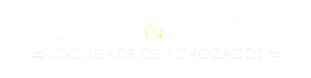
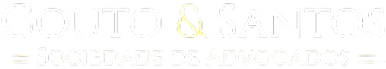
fix: Imagens de parceiros em webp

diff --git a/src/components/sections/TrustedBy.jsx b/src/components/sections/TrustedBy.jsx
@@ -10,8 +10,8 @@ import LogoDisplay from "../sectionElements/LogoDisplay";
 import SectionHeader from "../sectionElements/SectionHeader";
 import SectionWrapper from "../sectionElements/SectionWrapper";
 import MotionDivDownToUp from "../animation/MotionDivDownToUp";
-import trustedByImg1 from "../../assets/imgs/trustedBy/item1.png";
-import trustedByImg2 from "../../assets/imgs/trustedBy/item2.png";
+import trustedByImg1 from "../../assets/imgs/trustedBy/item1.webp";
+import trustedByImg2 from "../../assets/imgs/trustedBy/item2.webp";
 import TrustedByMore from "./TrustedByMore";
 
 const images = [

diff --git a/src/components/sections/TrustedByMore.jsx b/src/components/sections/TrustedByMore.jsx
@@ -2,8 +2,8 @@ import SectionArea from "../sectionElements/SectionArea";
 import SectionWrapper from "../sectionElements/SectionWrapper";
 import MotionDivDownToUp from "../animation/MotionDivDownToUp";
 import LogoDisplayMore from "../sectionElements/LogoDisplayMore";
-import trustedByImg1 from "../../assets/imgs/trustedBy/item1.png";
-import trustedByImg2 from "../../assets/imgs/trustedBy/item2.png";
+import trustedByImg1 from "../../assets/imgs/trustedBy/item1.webp";
+import trustedByImg2 from "../../assets/imgs/trustedBy/item2.webp";
 
 const images = [
   {
